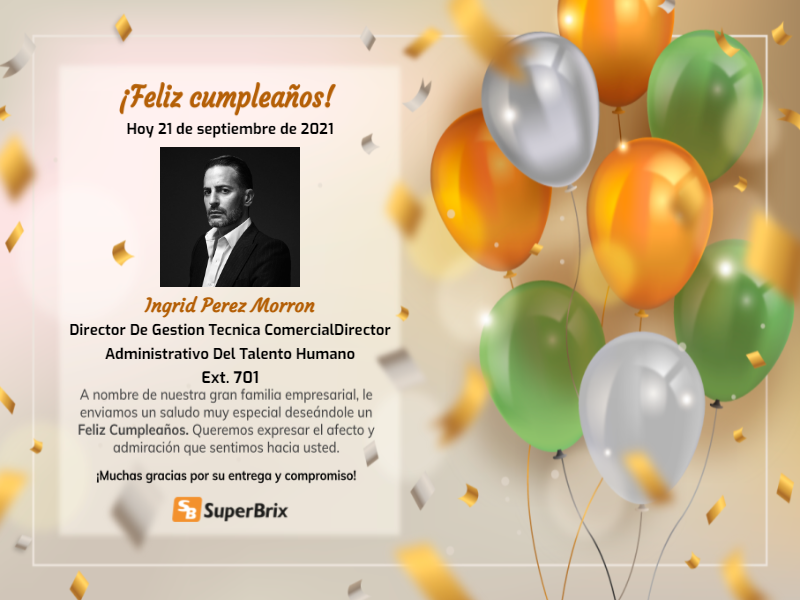
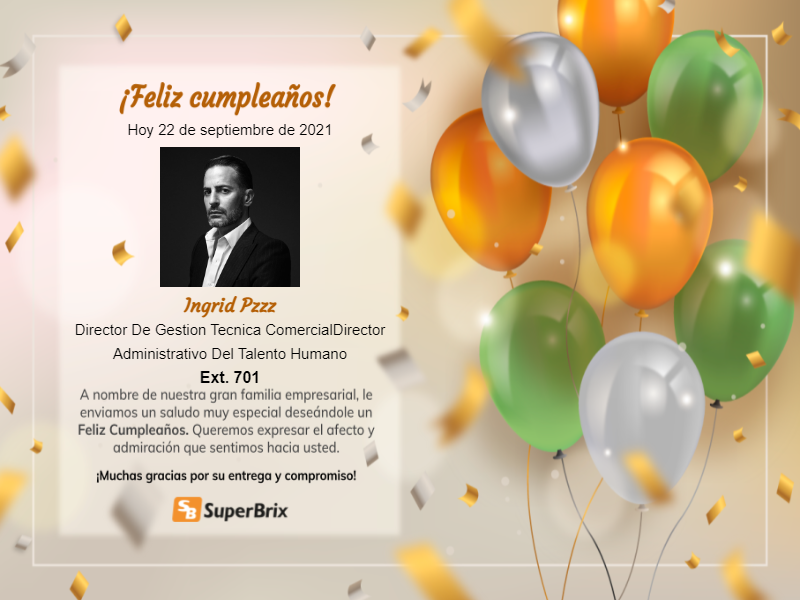
captura plantilla por persona

Changed region(s): [[0.0938, 0.48, 0.5, 0.66], [0.1562, 0.18, 0.4375, 0.24]]

diff --git a/Controllers/edit-empleado.php b/Controllers/edit-empleado.php
@@ -6,6 +6,8 @@
     
 <?php include ($_SERVER['DOCUMENT_ROOT']."/AUTO-EMAIL/conexion/db.php");?>
 <?php
+    setlocale(LC_TIME, "spanish");
+    $fechaActual = strftime("%d de %B de %Y");
     if (isset($_GET['id'])) {
         $id = $_GET['id'];
         $query = "SELECT * FROM personas WHERE id = $id";
@@ -32,9 +34,16 @@
             mysqli_query($mysqli, $query);
             $_SESSION['message'] = 'Person@ Actualizada Sastifactoriamente';
             $_SESSION['message_type'] = 'success';
-
-            header("Location:../home.php");
+            header("Refresh:0");
         }
+
+       $foto_ruta = '../Archivos'.'/contenedor'.$id.'.png';
+       echo "<script>alert($foto_ruta)</script>";
+       if (file_exists($foto_ruta)) {
+        echo "Esta variable está definida, así que se imprimirá";
+       }else {
+           echo "no definida";
+       }
     }
 ?>
 <div class="content">
@@ -79,14 +88,64 @@
                     </div>
                 </div>
                 <button name="update-empleado"class="btn btn-warning pull-right">Actualizar Persona</button>
+                <button id="btnCapturar" type="button" class="btn btn-danger">capturar foto</button>
                 <!-- <div class="clearfix"></div> -->
                 </form>
             </div>
         </div>
+        <?php if (file_exists($foto_ruta)) {
+           
+         foreach ($update_persona as $ListarDatos) : ?>
+            <div id="contenedor<?php echo $ListarDatos['id']?>" class="contenedor" style="width: 800px; height:600px; margin:0 auto;">
+                <img id="fondo" src="<?php $_SERVER['DOCUMENT_ROOT']?>/AUTO-EMAIL/Views/img/Plantillacumpleanios.png" style="width: 800px; height:600px; z-index: -3; position: absolute;" alt="" srcset="">
+                    <div style="padding-top: 60px; margin-left: 60px; width: 340px; height: 474px;">
+                            <h4 style="text-align: center; margin-bottom: 2px; cursive;  font-size: 20px; color: #b45f06"></h4>
+                            
+                            <h4 style="text-align: center; margin-top: 58px; font-size: 15px; font-family: 'Exo', sans-serif; color: black;"><strong>Hoy <?php echo $fechaActual; ?></strong></h4>
+                        <div class="foto">
+                            <center><img src="<?php $_SERVER['DOCUMENT_ROOT']?>/AUTO-EMAIL/Views/assets/img/faces/perfil1.jpg" width="140" height="140"style="text-align: center; margin:0 auto;" alt="" srcset=""></center>
+                        </div>
+                        <center><h4 style="text-align: center; margin: 4px 0px 0px 0px; font-family: 'Courgette', cursive; font-weight: bold; font-size: 19px; color: #b45f06"><?php echo $ListarDatos['nombres']; ?></h4></center>
+                            
+                        <center><p style="text-align: center; font-family: 'Exo', sans-serif; margin: 0; font-size: 15px; color:black;"><strong><?php echo $ListarDatos['cargo']; ?></strong></p></center>
+                        <center><p style="text-align: center; margin: 0; font-family: 'Exo', sans-serif;color:black; font-weight: 500;"><strong>Ext. <?php echo $ListarDatos['exten']; ?></strong></p></center>
+                    </div>          
+                </div>
+            </div>
+        <?php endforeach; ?> 
+    <?php } else {
+        echo "no existe esto";
+    }?>
+<script src="<?php $_SERVER['DOCUMENT_ROOT']?>../libraries/jquery-3.4.1.min.js"></script>     
+<script src="<?php $_SERVER['DOCUMENT_ROOT']?>../libraries/html2canvas.min.js"></script>
+<script src="../script.js"></script>
+<script type="text/javascript">
+  $(document).ready(function() {
+    $('#btnCapturar').click(function(){
+      var cont = '<?php echo $ListarDatos['id']?>';
+
+      for (let i = 1; i <= cont; i++) {
+        
+        tomarImagenPorSeccion('contenedor'+i,'contenedor'+i);  
+      }
+    });
+
+    $('#OcultarImg').click(function(){
+      $("#imagenes").css("display", "none");
+      $("#padre").css("display", "none");
+      
+    });
+    $('#MostrarImg').click(function(){
+      $("#imagenes").css("display", "block");
+      $("#padre").css("display", "block");
+      
+    });
+  })
+</script>
     </div>
-</div>
 <?php include ($_SERVER['DOCUMENT_ROOT'].'/AUTO-EMAIL/Views/pages/navbar.php');?>
 <?php include ($_SERVER['DOCUMENT_ROOT'].'/AUTO-EMAIL/Views/pages/footer.php');?>
 
 </div>
 <?php include ($_SERVER['DOCUMENT_ROOT'].'/AUTO-EMAIL/Views/pages/customizer.php');?>
+<img src="" alt="" srcset="">

diff --git a/Controllers/template_model.php b/Controllers/template_model.php
@@ -47,15 +47,23 @@ $cont = 1;
               <button id="btnCapturarUltimoRegistro" type="button" class="btn btn-success">Capturar solo la ultima foto</button>
         </div>
     </div>
+    <div class="col-md-2">
+        <input type="date" name="From" id="From" class="form-control" placeholder="From Date"/>
+    </div>
+    <div class="col-md-2">
+        <input type="date" name="to" id="to" class="form-control" placeholder="To Date"/>
+    </div>
+    <div class="col-md-8">
+        <input type="button" name="range" id="range" value="Range" class="btn btn-success"/>
+    </div>
+    <div class="clearfix"></div>
       <div id="imagenes">
       
           <?php foreach ($resultado_todos as $ListarDatos) : ?>
             
             <?php $ListarDatos['id'] ?>
   
-            
-            
-            <div id="contenedor<?php echo $ListarDatos['id']?>" class="contenedor" style="width: 800px; height:600px; margin:0 auto;">
+        <div id="contenedor<?php echo $ListarDatos['id']?>" class="contenedor" style="width: 800px; height:600px; margin:0 auto;">
               <img id="fondo" src="<?php $_SERVER['DOCUMENT_ROOT']?>/AUTO-EMAIL/Views/img/Plantillacumpleanios.png" style="width: 800px; height:600px; z-index: -3; position: absolute;" alt="" srcset="">
                   <div style="padding-top: 60px; margin-left: 60px; width: 340px; height: 474px;">
                           <h4 style="text-align: center; margin-bottom: 2px; cursive;  font-size: 20px; color: #b45f06"></h4>
@@ -78,7 +86,6 @@ $cont = 1;
       </div>
       
           </div>
-<!-- <button id="btnCapturar">Tomar captura</button> -->
 <script src="<?php $_SERVER['DOCUMENT_ROOT']?>../libraries/jquery-3.4.1.min.js"></script>     
 <script src="<?php $_SERVER['DOCUMENT_ROOT']?>../libraries/html2canvas.min.js"></script>
 <script src="../script.js"></script>
@@ -92,14 +99,6 @@ $cont = 1;
         
         tomarImagenPorSeccion('contenedor'+i,'contenedor'+i);  
       }
-    });
-
-    $(function() {
-      $('input[name="daterange"]').daterangepicker({
-        opens: 'left'
-      }, function(start, end, label) {
-        console.log("A new date selection was made: " + start.format('YYYY-MM-DD') + ' to ' + end.format('YYYY-MM-DD'));
-      });
     });
 
     $('#OcultarImg').click(function(){

diff --git a/Controllers/filtro-fecha.php b/Controllers/filtro-fecha.php
@@ -1,0 +1,42 @@
+<?php
+
+include("../conexion/db.php");
+if(isset($_POST["From"], $_POST["to"]))
+{
+    $result = '';
+    $query = "SELECT * FROM personas WHERE fecha_nacimiento BETWEEN '".$_POST["From"]."' AND '".$_POST["to"]."'";
+    $sql = mysqli_query($mysqli, $query);
+    $result .='
+    <table class="table table-bordered">
+    <tr>
+    <th width="100">ID</th>
+    <th>Customer Name</th>
+    <th>Purchased Item</th>
+    <th>Purchased Date</th>
+    <th width="100">Price</th>
+    </tr>';
+    if(mysqli_num_rows($sql) > 0)
+    {
+        while($row = mysqli_fetch_array($sql))
+        {
+            $result .='
+            <tr>
+            <td>'.$row["id"].'</td>
+            <td>'.$row["customer_name"].'</td>
+            <td>'.$row["purchased_items"].'</td>
+            <td>'.$row["purchased_date"].'</td>
+            <td>'.$row["price"].'</td>
+            </tr>';
+        }
+    }
+    else
+    {
+        $result .='
+        <tr>
+        <td colspan="5">No Purchased Item Found</td>
+        </tr>';
+    }
+    $result .='</table>';
+    echo $result;
+}
+?>

diff --git a/Controllers/crearImagenes.php b/Controllers/crearImagenes.php
@@ -1,5 +1,5 @@
 <?php
-    //llama a la case que va instanciar
+    //llama a la clase que va instanciar
     require_once "Archivo.php";
 
     $img = $_POST['img'];

diff --git a/Controllers/eliminarimagen.php b/Controllers/eliminarimagen.php
@@ -1,0 +1,9 @@
+<?php
+    require_once "Archivo.php";
+
+    $img = $_POST['img'];
+    $nombre=$_POST['nombre'];
+
+    print_r( $img);
+
+?>
